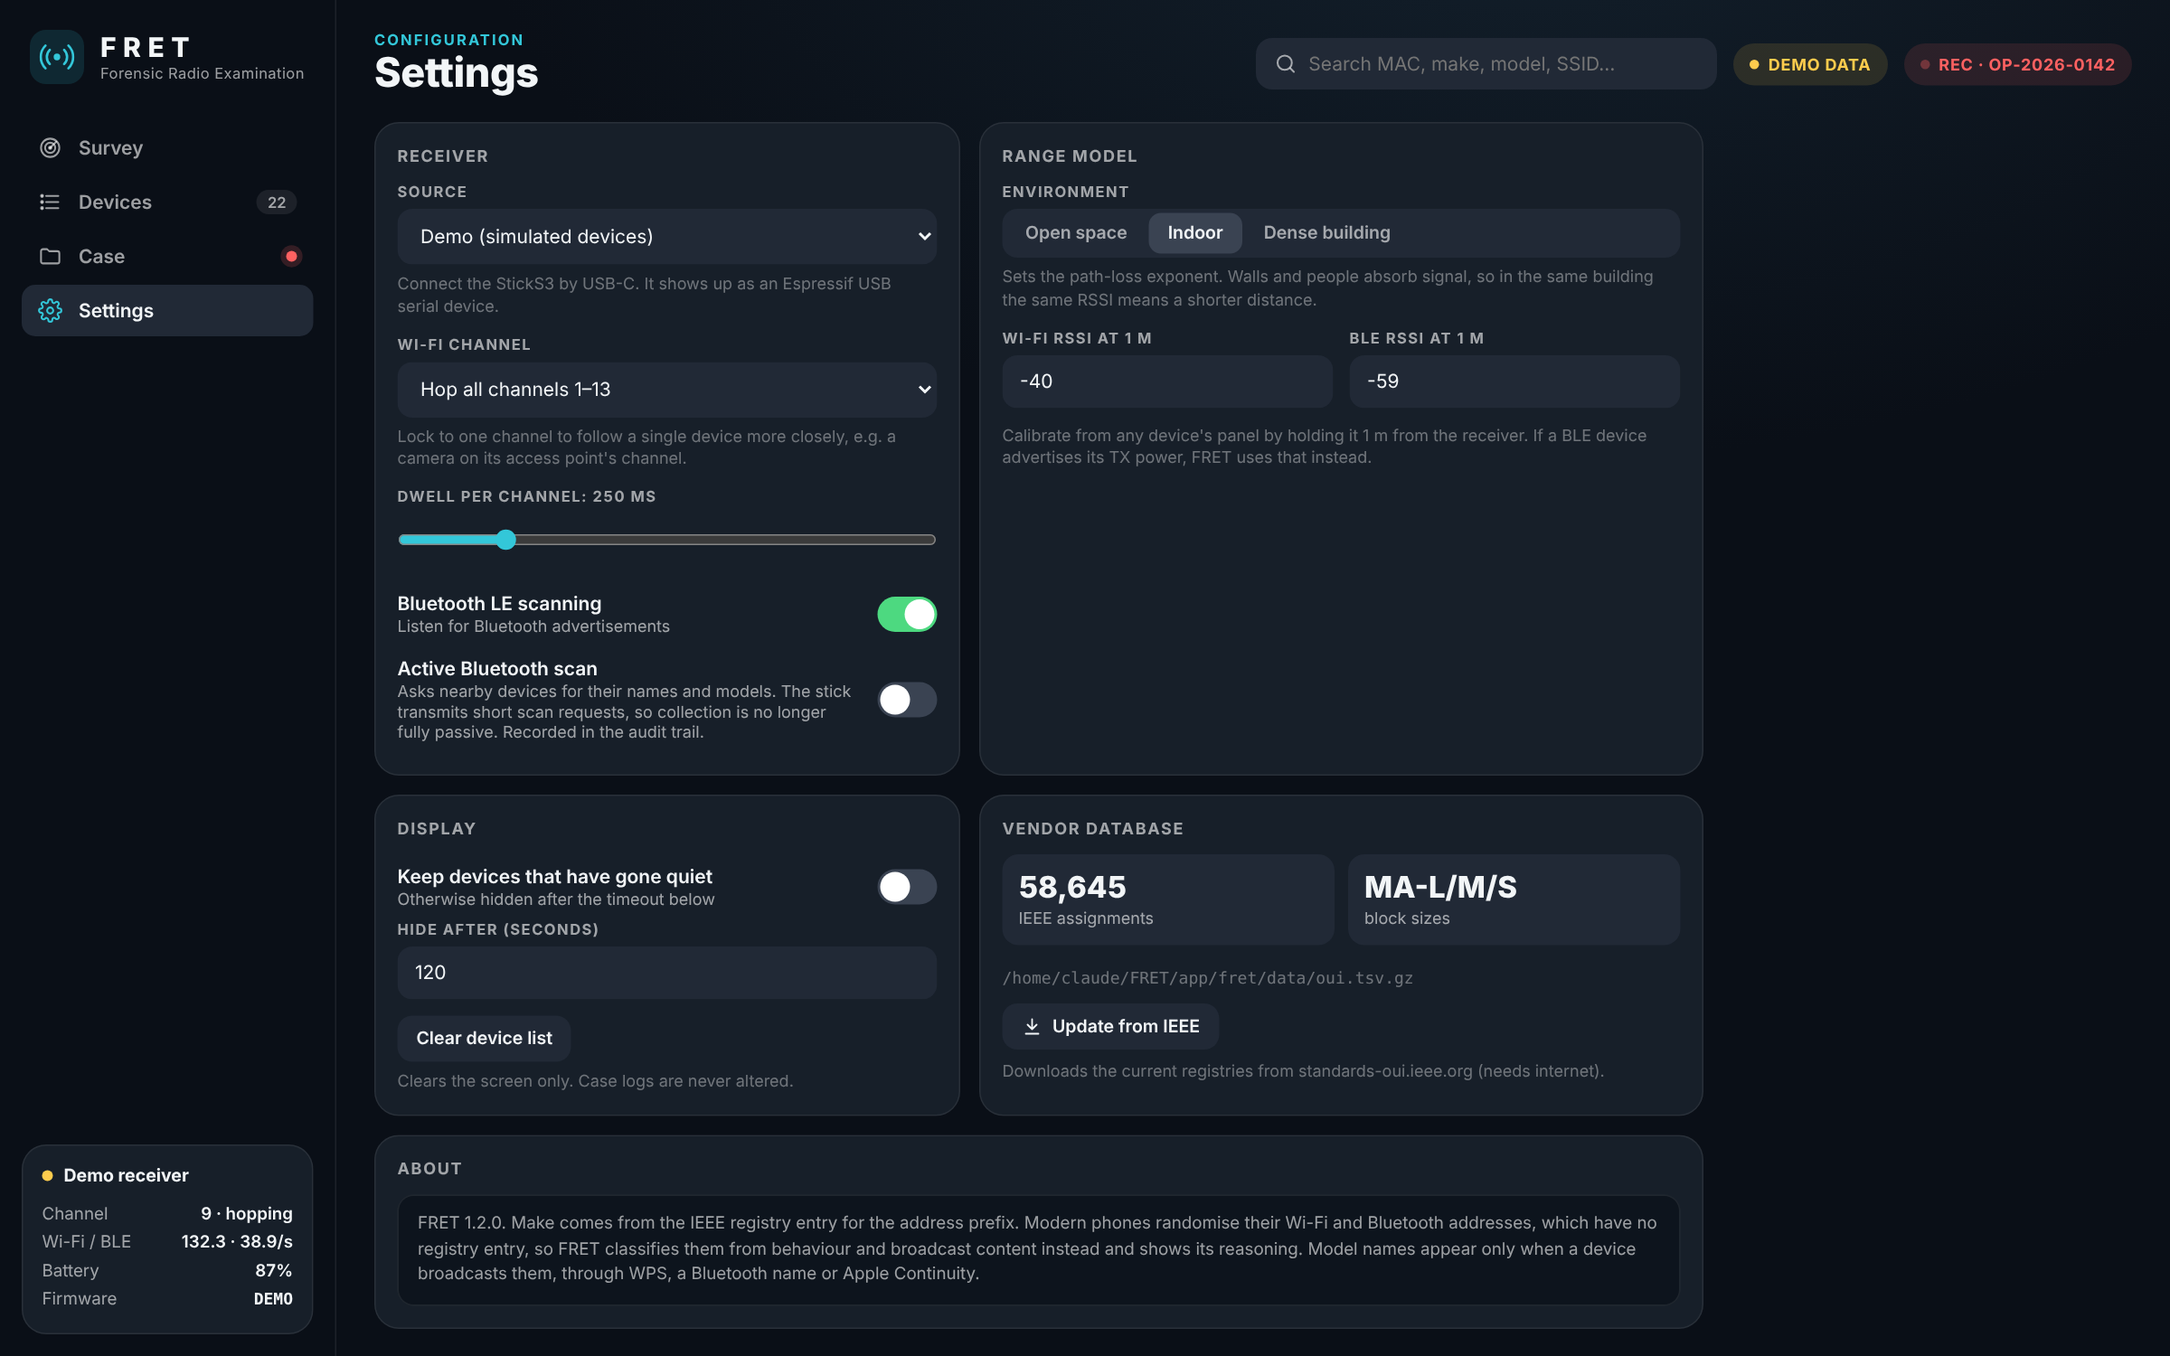
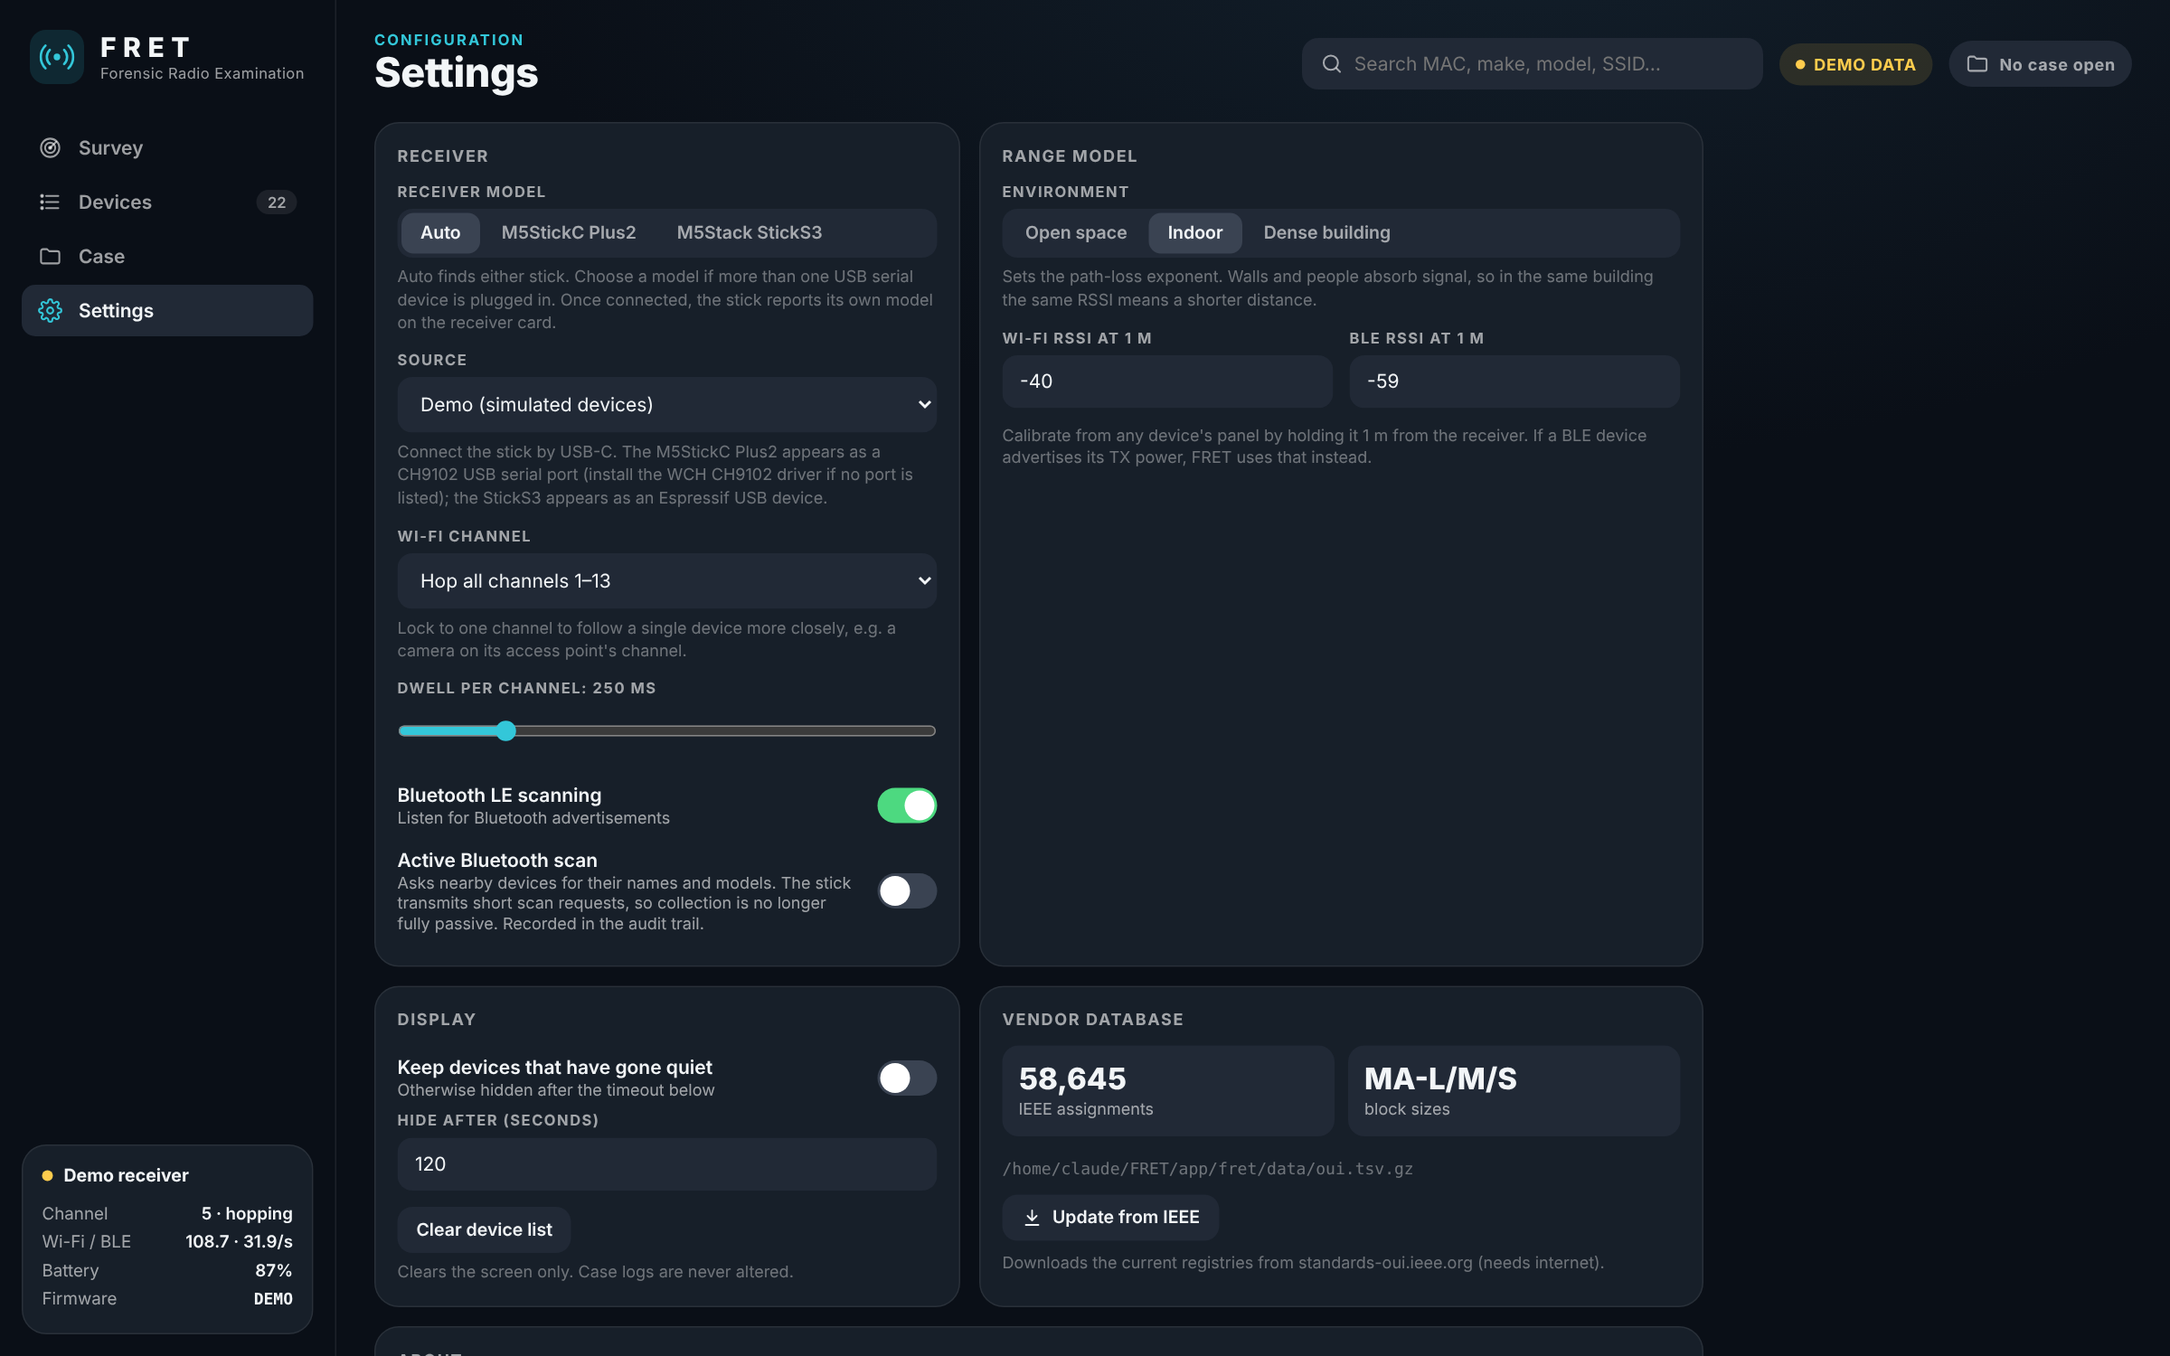
Add receiver model choice (M5StickC Plus2 / StickS3) to the app
The app assumed a StickS3 in its wording and auto-detect. Settings now
offers Auto, M5StickC Plus2 or M5Stack StickS3; auto-detect prefers the
chosen stick's USB chip, detected ports are named, and the Source
dropdown keeps the selected port.

diff --git a/app/fret/ui/app.js b/app/fret/ui/app.js
@@ -122,7 +122,8 @@ function hashAngle(s) { let h = 2166136261; for (const c of s) h = Math.imul(h ^
 function renderRecv() {
   const st = S.state, src = st.source, stat = src.status || {}, h = src.hello || {};
   const cls = src.kind === 'demo' ? 'demo' : src.connected ? 'ok' : '';
-  const name = src.kind === 'demo' ? 'Demo receiver' : (h.board || 'StickS3');
+  const model = st.receivers && st.receivers[st.settings.receiver];
+  const name = src.kind === 'demo' ? 'Demo receiver' : (h.board || model || 'Receiver');
   $('#recv').innerHTML = `<div class="hd"><span class="st ${cls}"></span>${esc(name)}</div>
     ${src.connected ? `
     <div class="kv">Channel<b>${stat.ch ?? '–'} ${stat.hop === false ? '(locked)' : '· hopping'}</b></div>
@@ -288,7 +289,7 @@ function renderDrawer(full) {
   </div>
   <div class="dsec"><h3>Examiner note</h3><textarea class="note" id="dNote" placeholder="Add an observation (saved to the case audit trail)">${esc(d.note)}</textarea></div>`;
   $('#dFlag').onclick = async () => { await api('annotate', d.key, null, !d.flagged); await tick(); renderDrawer(true); };
-  $('#dCal').onclick = () => confirmModal('Calibrate range at 1 m', 'Place this device 1 metre from the StickS3 with a clear line of sight. FRET will use its current signal level as the 1 m reference for all ' + (d.medium === 'ble' ? 'Bluetooth' : 'Wi-Fi') + ' devices.', 'Calibrate', async () => { const res = await api('calibrate', d.key, 1.0); if (!res.ok) toast(res.error); });
+  $('#dCal').onclick = () => confirmModal('Calibrate range at 1 m', 'Place this device 1 metre from the receiver stick with a clear line of sight. FRET will use its current signal level as the 1 m reference for all ' + (d.medium === 'ble' ? 'Bluetooth' : 'Wi-Fi') + ' devices.', 'Calibrate', async () => { const res = await api('calibrate', d.key, 1.0); if (!res.ok) toast(res.error); });
   $('#dCopy').onclick = () => { navigator.clipboard?.writeText(d.mac); toast('MAC copied'); };
   let t; $('#dNote').oninput = e => { clearTimeout(t); t = setTimeout(() => api('annotate', d.key, e.target.value, null), 600); };
   updateDrawerLive(d);
@@ -334,7 +335,7 @@ function renderCase(full) {
       <div class="col"><div class="card"><div class="sechead"><span>What gets recorded</span></div>
         <div class="notice">Every frame and advertisement the receiver forwards is written to a SQLite log with a UTC timestamp, together with an audit trail of examiner actions (settings, calibration, notes, flags, exports).<br><br>
         Exports produce a device table (CSV, JSON), the raw observation log, and an HTML report. Each file is SHA-256 hashed into <span class="mono">SHA256SUMS.txt</span> and the audit trail.<br><br>
-        Collection is passive. The StickS3 only listens and never transmits to or connects with any device.</div></div>
+        Collection is passive by default. The receiver stick only listens and never connects to any device; the optional active Bluetooth scan is the only thing that transmits, and it is logged.</div></div>
         <div class="card"><div class="sechead"><span>Case folders</span></div><div class="muted" style="font-size:13px;margin-bottom:10px">Saved under Documents\\FRET Cases</div><button class="btn" id="fOpen">${ico('open')}Open folder</button></div></div>
     </div>`;
     $('#fStart').onclick = async () => {
@@ -371,12 +372,16 @@ function dur(iso) { const s = Math.max(0, (Date.now() - Date.parse(iso)) / 1000)
 function renderSettings(full) {
   const st = S.state; if (!st || !full) return;
   const s = st.settings, src = st.source, stat = src.status || {};
-  const portOpts = [['auto', 'Auto-detect StickS3'], ...S.ports.map(p => [p.device, `${p.device} — ${p.description}${p.likely ? ' ★' : ''}`]), ['demo', 'Demo (simulated devices)']];
-  const cur = src.kind === 'demo' ? 'demo' : 'auto';
+  const rx = st.receivers || {};
+  const rxSel = s.receiver || 'auto';
+  const portOpts = [['auto', 'Auto-detect the stick'], ...S.ports.map(p => [p.device, `${p.device} — ${p.board_name || p.description}${p.board_name ? ' ★' : (p.likely ? ' (USB serial)' : '')}`]), ['demo', 'Demo (simulated devices)']];
+  const cur = src.kind === 'demo' ? 'demo' : (src.selection || 'auto');
   $('#settingsBody').innerHTML = `
   <div class="card"><div class="sechead"><span>Receiver</span></div>
+    <div class="field"><label>Receiver model</label><div class="seg" id="sRx">${[['auto', 'Auto'], ...Object.entries(rx)].map(([k, l]) => `<button data-v="${k}" class="${rxSel === k ? 'on' : ''}">${esc(l)}</button>`).join('')}</div>
+      <div class="hint">Auto finds either stick. Choose a model if more than one USB serial device is plugged in. Once connected, the stick reports its own model on the receiver card.</div></div>
     <div class="field"><label>Source</label><select id="sSrc">${portOpts.map(([v, l]) => `<option value="${esc(v)}" ${v === cur ? 'selected' : ''}>${esc(l)}</option>`).join('')}</select>
-      <div class="hint">Connect the StickS3 by USB-C. It shows up as an Espressif USB serial device.</div></div>
+      <div class="hint">Connect the stick by USB-C. The M5StickC Plus2 appears as a CH9102 USB serial port (install the WCH CH9102 driver if no port is listed); the StickS3 appears as an Espressif USB device.</div></div>
     <div class="field"><label>Wi-Fi channel</label><select id="sCh"><option value="AUTO">Hop all channels 1–13</option>${Array.from({ length: 13 }, (_, i) => `<option value="${i + 1}" ${stat.hop === false && stat.ch === i + 1 ? 'selected' : ''}>Lock to channel ${i + 1}</option>`).join('')}</select>
       <div class="hint">Lock to one channel to follow a single device more closely, e.g. a camera on its access point's channel.</div></div>
     <div class="field"><label>Dwell per channel: <span id="sDwV">${s.dwell_ms}</span> ms</label><input type="range" id="sDw" min="100" max="1000" step="50" value="${s.dwell_ms}"></div>
@@ -404,6 +409,7 @@ function renderSettings(full) {
   <div class="card full"><div class="sechead"><span>About</span></div><div class="notice">FRET ${esc(st.version)}. Make comes from the IEEE registry entry for the address prefix. Modern phones randomise their Wi-Fi and Bluetooth addresses, which have no registry entry, so FRET classifies them from behaviour and broadcast content instead and shows its reasoning. Model names appear only when a device broadcasts them, through WPS, a Bluetooth name or Apple Continuity.</div></div>`;
   const set = (k, v) => api('set_setting', k, v);
   $('#sSrc').onchange = e => { api('use_source', e.target.value); toast('Switching source…'); };
+  $('#sRx').querySelectorAll('button').forEach(b => b.onclick = async () => { await set('receiver', b.dataset.v); $('#sRx').querySelectorAll('button').forEach(x => x.classList.toggle('on', x === b)); S.ports = await api('list_ports') || []; toast(b.dataset.v === 'auto' ? 'Detecting either receiver' : 'Looking for ' + rx[b.dataset.v]); });
   $('#sCh').onchange = e => api('send_command', 'CH ' + e.target.value);
   $('#sDw').oninput = e => $('#sDwV').textContent = e.target.value;
   $('#sDw').onchange = e => set('dwell_ms', +e.target.value);

diff --git a/app/fret/sources.py b/app/fret/sources.py
@@ -1,4 +1,4 @@
-"""Capture sources: the StickS3 over USB serial, or a built-in demo."""
+"""Capture sources: an M5StickC Plus2 / StickS3 receiver over USB serial, or a built-in demo."""
 from __future__ import annotations
 
 import json
@@ -14,21 +14,37 @@ Callback = Callable[[dict[str, Any]], None]
 ESPRESSIF_VID = 0x303A
 USB_SERIAL_VIDS = {0x1A86, 0x10C4, 0x0403}  # WCH CH9102/CH340, Silicon Labs CP210x, FTDI
 BAUD = 921600
+WCH_VID = 0x1A86  # CH9102 on the M5StickC Plus2
+
+# Supported receivers: id -> (display name, preferred USB vendor IDs)
+RECEIVERS = {
+    "plus2": ("M5StickC Plus2", {WCH_VID}),
+    "sticks3": ("M5Stack StickS3", {ESPRESSIF_VID}),
+}
 
 
-def list_ports() -> list[dict[str, str]]:
+def board_hint(vid: int | None) -> str:
+    if vid == ESPRESSIF_VID:
+        return "sticks3"
+    if vid == WCH_VID:
+        return "plus2"
+    return ""
+
+
+def list_ports(prefer: str = "auto") -> list[dict[str, Any]]:
     try:
         from serial.tools import list_ports as lp
     except ImportError:
         return []
     out = []
     for p in lp.comports():
+        hint = board_hint(p.vid)
         out.append({
             "device": p.device, "description": p.description or "",
             "likely": bool(p.vid == ESPRESSIF_VID or p.vid in USB_SERIAL_VIDS or "ESP32" in (p.description or "").upper()),
-            "espressif": p.vid == ESPRESSIF_VID,
+            "board": hint, "board_name": RECEIVERS[hint][0] if hint else "",
         })
-    out.sort(key=lambda x: (not x["espressif"], not x["likely"]))
+    out.sort(key=lambda x: (not (prefer != "auto" and x["board"] == prefer), not x["board"], not x["likely"]))
     return out
 
 
@@ -70,9 +86,10 @@ class Source:
 class SerialSource(Source):
     name = "serial"
 
-    def __init__(self, cb: Callback, port: str | None = None):
+    def __init__(self, cb: Callback, port: str | None = None, prefer: str = "auto"):
         super().__init__(cb)
         self.port = port
+        self.prefer = prefer
         self._ser = None
         self._wlock = threading.Lock()
 
@@ -87,7 +104,11 @@ class SerialSource(Source):
     def _pick_port(self) -> str | None:
         if self.port:
             return self.port
-        ports = list_ports()
+        ports = list_ports(self.prefer)
+        if self.prefer != "auto":
+            match = [p for p in ports if p["board"] == self.prefer]
+            if match:
+                return match[0]["device"]
         likely = [p for p in ports if p["likely"]]
         return likely[0]["device"] if likely else None
 
@@ -97,7 +118,8 @@ class SerialSource(Source):
         while self.running:
             port = self._pick_port()
             if not port:
-                self.connected, self.error = False, "Receiver not found - plug the stick in with a data USB-C cable"
+                want = RECEIVERS[self.prefer][0] if self.prefer in RECEIVERS else "M5StickC Plus2 / StickS3"
+                self.connected, self.error = False, f"{want} not found - plug the stick in with a data USB-C cable"
                 time.sleep(1.5)
                 continue
             try:
@@ -171,7 +193,7 @@ class DemoSource(Source):
         self.oui = oui
         self.channel = 1
         self.devices = self._scenario()
-        self.hello = {"t": "hello", "fw": "DEMO", "board": "Simulated StickS3", "self": "DE:MO:00:00:00:00"}
+        self.hello = {"t": "hello", "fw": "DEMO", "board": "Simulated receiver", "self": "DE:MO:00:00:00:00"}
 
     def _mac(self, pattern: str | None, randomized: bool = False) -> str:
         r = self.rng

diff --git a/app/fret/engine.py b/app/fret/engine.py
@@ -14,12 +14,13 @@ from .case import Case
 from .distance import calibrate_ref
 from .oui import OuiDb
 from .paths import cases_dir, data_dir
-from .sources import DemoSource, SerialSource, Source, list_ports
+from .sources import RECEIVERS, DemoSource, SerialSource, Source, list_ports
 from .tracker import Tracker
 
 DEFAULT_SETTINGS: dict[str, Any] = {
     "environment": "indoor",
     "ref_1m": {"wifi": -40.0, "ble": -59.0},
+    "receiver": "auto",
     "dwell_ms": 250,
     "ble_active": False,
     "stale_after_s": 120,
@@ -44,6 +45,7 @@ class Engine:
         self.source: Source | None = None
         self.started = time.time()
         self.toast = ""
+        self.selection = "auto"
         self._flusher = threading.Thread(target=self._flush_loop, daemon=True)
         self._flusher.start()
         self.use_source("demo" if demo else (port or "auto"))
@@ -88,7 +90,9 @@ class Engine:
             "source": {
                 "kind": s.name if s else "none", "connected": bool(s and s.connected),
                 "error": s.error if s else "", "hello": s.hello if s else {}, "status": s.status if s else {},
+                "selection": self.selection,
             },
+            "receivers": {k: v[0] for k, v in RECEIVERS.items()},
             "devices": devices,
             "counts": counts,
             "total_records": self.tracker.total_records,
@@ -107,17 +111,19 @@ class Engine:
         t, self.toast = self.toast, ""
         return t
 
-    def list_ports(self) -> list[dict[str, str]]:
-        return list_ports()
+    def list_ports(self) -> list[dict[str, Any]]:
+        return list_ports(self.settings.get("receiver", "auto"))
 
     def use_source(self, which: str) -> dict[str, Any]:
         if self.source:
             self.source.stop()
         self.tracker.clear()
+        self.selection = which
         if which == "demo":
             self.source = DemoSource(self._on_record, oui=self.oui)
         else:
-            self.source = SerialSource(self._on_record, None if which == "auto" else which)
+            self.source = SerialSource(self._on_record, None if which == "auto" else which,
+                                       prefer=self.settings.get("receiver", "auto"))
         self.source.start()
         if self.case:
             self.case.audit("source_changed", which)
@@ -178,6 +184,8 @@ class Engine:
             self.send_command(f"DWELL {int(value)}")
         if key == "ble_active":
             self.send_command("BLE ACTIVE" if value else "BLE PASSIVE")
+        if key == "receiver" and self.selection == "auto":
+            self.use_source("auto")  # re-detect using the chosen model
         for d in self.tracker.devices.values():
             d.dirty = True
         if self.case:

diff --git a/app/fret/__init__.py b/app/fret/__init__.py
@@ -7,4 +7,4 @@ the terms of the GNU General Public License as published by the Free Software
 Foundation, either version 3 of the License, or (at your option) any later
 version. It is distributed WITHOUT ANY WARRANTY; see the LICENSE file.
 """
-__version__ = "1.2.0"
+__version__ = "1.2.1"

diff --git a/CHANGELOG.md b/CHANGELOG.md
@@ -2,6 +2,16 @@
 
 All notable changes to FRET are listed here. The format follows [Keep a Changelog](https://keepachangelog.com/en/1.1.0/) and versions follow [Semantic Versioning](https://semver.org/).
 
+## [1.2.1] - 2026-11-03
+
+### Added
+- **Receiver model** choice in Settings → Receiver: *Auto*, *M5StickC Plus2* or *M5Stack StickS3*. Auto-detect prefers the chosen model's USB chip (CH9102 for the Plus2, Espressif USB for the StickS3).
+- The Source list names detected sticks (e.g. *COM7 — M5StickC Plus2 ★*).
+
+### Fixed
+- The app's wording assumed a StickS3 everywhere ("Auto-detect StickS3", setup hints, receiver card). It now covers both receivers, and the receiver card shows the model the stick reports.
+- The Source dropdown now shows the selected COM port instead of jumping back to Auto.
+
 ## [1.2.0] - 2026-11-02
 
 ### Added

diff --git a/docs/USER_GUIDE.md b/docs/USER_GUIDE.md
@@ -118,7 +118,8 @@ See [Evidence handling](EVIDENCE.md) for the folder layout and how to verify has
 
 | Setting | Notes |
 |---|---|
-| **Source** | Auto-detect, a specific COM port, or Demo |
+| **Receiver model** | *Auto* (default), *M5StickC Plus2* or *M5Stack StickS3*. Auto finds either stick. Pick a model when several USB serial devices are plugged in, so FRET connects to the right one |
+| **Source** | Auto-detect, a specific COM port (detected sticks are named and starred), or Demo |
 | **Wi-Fi channel** | *Hop all channels 1–13* (default) or lock to one channel. Lock to a camera's or router's channel to catch more of its traffic |
 | **Dwell per channel** | 100–1000 ms (default 250). Longer catches more from busy channels but sweeps more slowly |
 | **Bluetooth LE scanning** | On or off |

diff --git a/README.md b/README.md
@@ -8,7 +8,7 @@
   <img alt="Python" src="https://img.shields.io/badge/python-3.10%2B-33c7d9?style=flat-square&logo=python&logoColor=white">
   <img alt="Hardware" src="https://img.shields.io/badge/receiver-M5StickC%20Plus2%20%7C%20StickS3-ff9e42?style=flat-square">
   <img alt="Firmware" src="https://img.shields.io/badge/firmware-PlatformIO%20%2F%20Arduino-8c8cff?style=flat-square">
-  <img alt="Version" src="https://img.shields.io/badge/version-1.2.0-4dd980?style=flat-square">
+  <img alt="Version" src="https://img.shields.io/badge/version-1.2.1-4dd980?style=flat-square">
   <img alt="Licence" src="https://img.shields.io/badge/licence-GPL--3.0-f27ec2?style=flat-square">
 </p>
 
